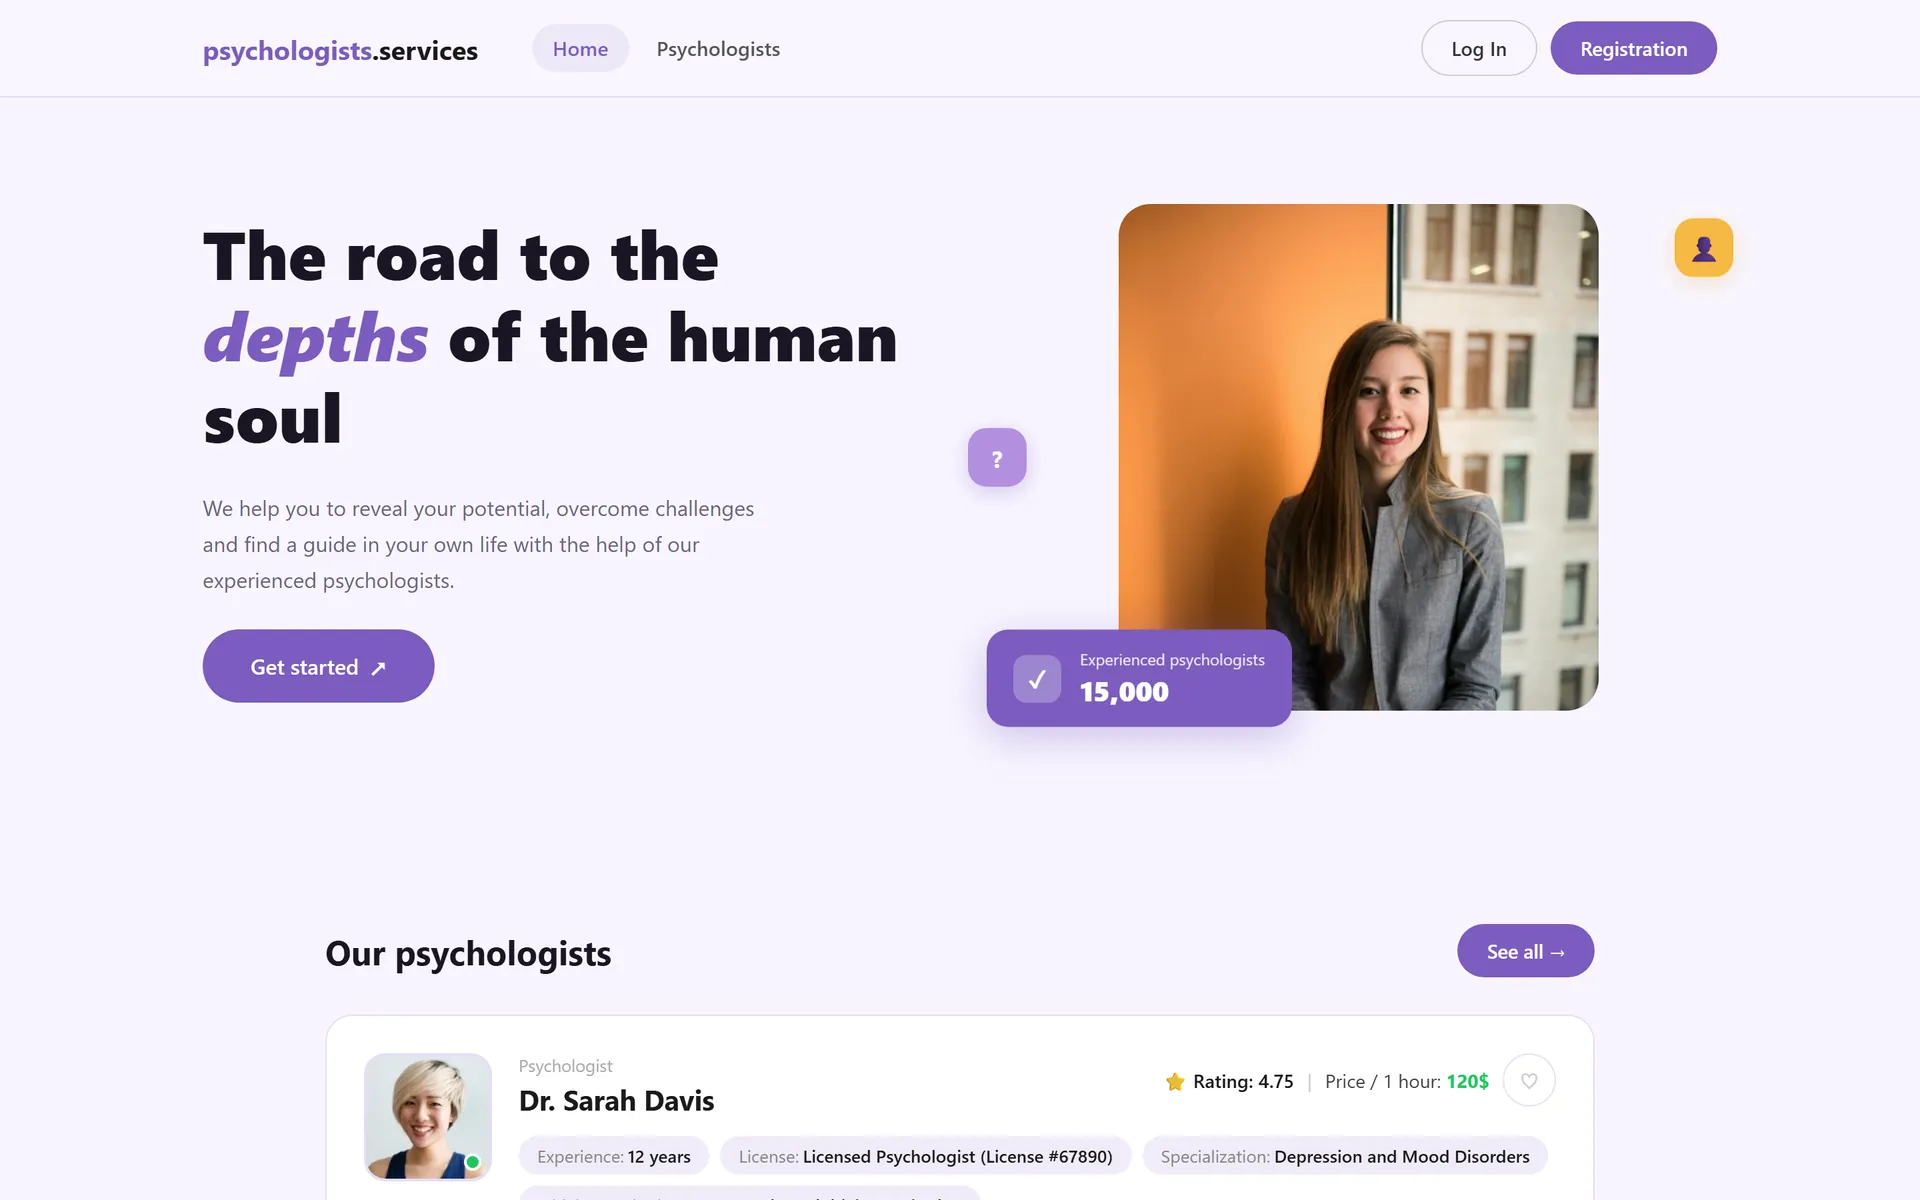
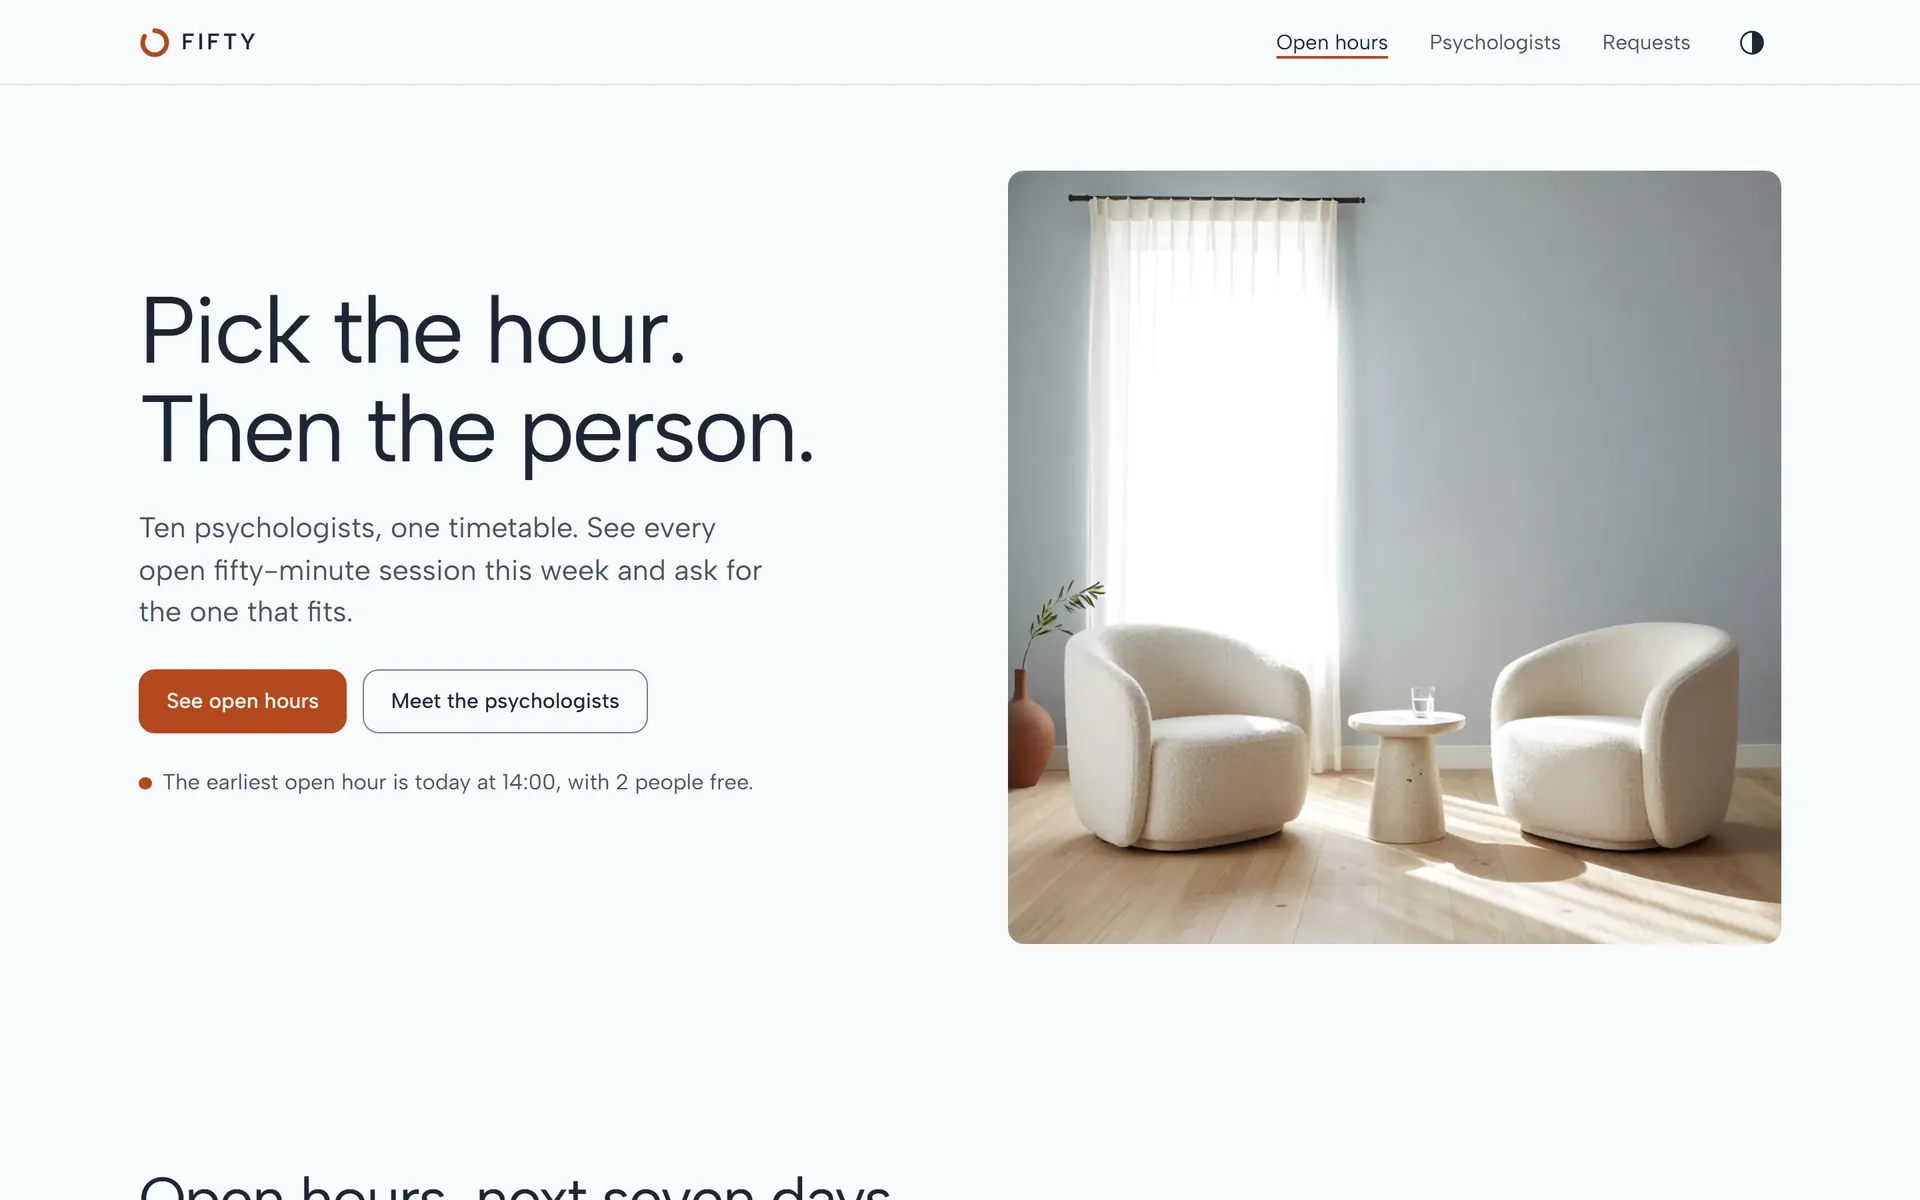
List Psychologist Services as FIFTY
The project was rebuilt on Next.js 16 as FIFTY: one timetable of open
fifty-minute hours for ten psychologists. New name, description, stack,
revision B and a fresh capture of the live site.

diff --git a/lib/projects.ts b/lib/projects.ts
@@ -305,16 +305,16 @@ export const PROJECTS: Project[] = [
   },
   {
     id: 'psychologist',
-    name: 'Psychologist Services',
-    kind: { en: 'Directory', tr: 'Rehber' },
+    name: 'FIFTY',
+    kind: { en: 'Session timetable', tr: 'Seans çizelgesi' },
     standing: 'demo',
     blurb: {
-      en: 'Psychologist directory with sorting, favourites and appointment requests.',
-      tr: 'Sıralama, favoriler ve randevu talebi olan psikolog rehberi.',
+      en: 'Ten psychologists on one timetable of open fifty-minute hours: pick the hour first, then the person.',
+      tr: 'On psikoloğun boş elli dakikalık saatleri tek çizelgede: önce saati, sonra kişiyi seçersiniz.',
     },
-    stack: ['React 19', 'Firebase', 'React Hook Form', 'Vite'],
+    stack: ['Next.js 16', 'React 19', 'TypeScript', 'Tailwind CSS 4', 'Zustand'],
     started: '2026-03',
-    rev: 'A',
+    rev: 'B',
     live: 'https://resilient-salmiakki-c08a67.netlify.app/',
     code: gh('Psychologist-Services'),
   },

diff --git a/lib/content.ts b/lib/content.ts
@@ -244,8 +244,8 @@ export const PATH_SOFTWARE: PathRow[] = [
   {
     date: { en: '2026-10', tr: '2026-10' },
     text: {
-      en: 'Rainbow Design running on its own domain, rainbowdesign.com.tr. Book-Shelf rebuilt as Shelfmark.',
-      tr: 'Rainbow Design kendi alan adında çalışıyor: rainbowdesign.com.tr. Book-Shelf, Shelfmark olarak yeniden kuruldu.',
+      en: 'Rainbow Design running on its own domain, rainbowdesign.com.tr. Book-Shelf rebuilt as Shelfmark, Psychologist Services as FIFTY.',
+      tr: 'Rainbow Design kendi alan adında çalışıyor: rainbowdesign.com.tr. Book-Shelf, Shelfmark olarak; Psychologist Services, FIFTY olarak yeniden kuruldu.',
     },
   },
 ];
